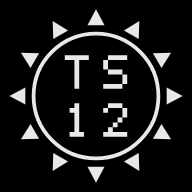
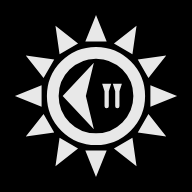
Tusinasää: kuvake auringoksi ja babylonialaiseksi 12:ksi kaikkialla
Välilehtimuoto (paksu kehä, isot ulospäin osoittavat kolmiot) kaikkiin
kuvakkeisiin: välilehti, kotivalikko, manifest, linkin esikatselu ja
Android. Kehän sisällä nuolenpääkirjoituksen 12: kulmakiila (10) täyttää
vasemman puolikkaan, kaksi pystykiilaa (1 + 1) huomattavasti pienempinä
oikean puolikkaan keskellä (käyttäjän ajatus: päivä ja yö keskilinjan eri
puolilla). Pikselikirjaimet TS 12 poistuivat.

Linkin esikatselu uudella nimellä tusinasaa-jako-2.png (viestimien
välimuisti). Maskable-kuvan kärjet tasan turva-alueen reunalla (mitattu 204 /
204,8 px).

Claude-Session: https://claude.ai/code/session_01FjT3WtsPDemhTRazzKC8dV

Changed region(s): [[0.0312, 0.0312, 0.9688, 0.9688]]

diff --git a/android/scripts/tusinasaa-kuvake.js b/android/scripts/tusinasaa-kuvake.js
@@ -1,23 +1,20 @@
-// Tusinasään kuvake (käyttäjän luonnos 17.11.2026): ympyrä, sen ulkopuolella kellotaulun paikoilla 12 pientä
-// ulospäin osoittavaa kolmiota hiukan irti kehästä, ja keskellä pikselikirjaimin TS / 12 (ei keskipistettä:
-// interpunkti poistettiin käyttäjän pyynnöstä samana päivänä). Kirjaimet ovat omaa 5 × 7 -pikseliruudukkoa (ei fonttitiedostoa), jotta sama muoto
-// syntyy vektorina sekä SVG:hen että Androidin VectorDrawableen.
+// Tusinasään kuvake (käyttäjän linjaukset 17.11.2026): musta kiekko, paksu kehä, sen ulkopuolella kellotaulun
+// paikoilla 12 ulospäin osoittavaa kolmiota irti kehästä, ja kehän sisällä babylonialainen luku 12 nuolenpääkirjoituksella:
+// kulmakiila (10) ja kaksi pystykiilaa (1 + 1). Kulmakiila täyttää kehän sisäympyrän vasemman puolikkaan (kärki ja
+// selän kulmat ympyrällä, selkä keskilinjan tuntumassa); pystykiilat ovat huomattavasti pienemmät oikean puolikkaan
+// keskellä, jolloin keskilinjan eri puolille syntyy päivän ja yön vaikutelma (käyttäjän ajatus).
+// Sama muoto kaikkialla (välilehti, kotivalikko, linkin esikatselu, Android); vain rajaus vaihtelee.
 //
 // Tuottaa:
-//   icons/tusinasaa.svg            välilehden kuvake: oma, pelkistetty muoto (käyttäjän pyyntö 17.11.2026): ei kirjaimia,
-//                                  paksumpi kehä ja suuremmat kolmiot, jotta 16–32 px:ssä näkyy muoto eikä puuroa ja
-//                                  välilehden kuvake erottuu kotinäytön ja sovelluksen kuvakkeesta
-//   icons/tusinasaa-180.png        apple-touch-icon (tumma; iOS täyttää läpinäkyvän mustalla)
-//   icons/tusinasaa-192.png, -512.png   manifest.webmanifest, any (näkyvä 72 yksikön alue)
-//   icons/tusinasaa-maskable-512.png    manifest, maskable: koko 108 kangas, koska maskin turva-alue on säde 40 %
-//   icons/tusinasaa-32.png         sama välilehtikuvake selaimille, jotka eivät näytä SVG-kuvaketta (Big Surin Safari)
-//   icons/tusinasaa-jako-1.png     linkin esikatselu (og:image; WhatsApp, Signal ym.), 600 × 600. Kun kuva muuttuu,
-//                                  nosta numeroa ja päivitä og:image: viestimet pitävät vanhan osoitteen kuvan välimuistissa.
-//   android/app/src/main/res/…     käynnistyskuvake: adaptiivinen (Android 8+) ja monokromi (13+ teemakuvake)
-//
-// Kaikkialla tumma (vaalea viiva mustalla). Vaalea versio (VAALEA) kokeiltiin 17.11.2026: vaalealla taustakuvalla
-// ja vaalealla välilehtipalkilla se hukkui taustaan, tumma erottui joka taustalla. Android 13:n teemakuvake
-// (monokromi) sävyttyy järjestelmän väreihin, joten vaalea sävy tulee sitä kautta, jos käyttäjä sen valitsee.
+//   icons/tusinasaa.svg, -32.png         välilehden kuvake (32 px PNG Big Surin Safarille)
+//   icons/tusinasaa-180.png              apple-touch-icon (iOS täyttää läpinäkyvän mustalla, joten musta neliö)
+//   icons/tusinasaa-192.png, -512.png    manifest.webmanifest, any
+//   icons/tusinasaa-maskable-512.png     manifest, maskable: kolmioiden kärjet maskin turva-alueen (säde 40 %) sisällä
+//   icons/tusinasaa-jako-N.png           linkin esikatselu (og:image; WhatsApp, Signal ym.), 600 × 600. Kun kuva muuttuu,
+//                                        nosta JAKO-numeroa ja päivitä og:image tusinapaja.html:ssä ja index.html:ssä:
+//                                        viestimet pitävät vanhan osoitteen kuvan välimuistissa.
+//   android/app/src/main/res/…           käynnistyskuvake: adaptiivinen (Android 8+), monokromi (13+ teemakuvake) ja
+//                                        Android 7:lle pyöreä layer-list
 //
 // Ajo repon juuressa: NODE_PATH=$(npm root -g) node android/scripts/tusinasaa-kuvake.js
 const fs = require('fs');
@@ -27,94 +24,70 @@ const { chromium } = require('playwright');
 const JUURI = path.resolve(__dirname, '../..');
 const IKONIT = path.join(JUURI, 'icons');
 const RES = path.join(JUURI, 'android/app/src/main/res');
+const JAKO = 2;
 
-// tusinapaja.html:n värit: tumma teema --color-bg / --color-text, vaalea samat.
-const TUMMA = { pohja: '#000000', muste: '#e8e8e8' };
-const VAALEA = { pohja: '#f7f8fa', muste: '#1c1f22' };
+// tusinapaja.html:n tumman teeman --color-bg ja --color-text.
+const POHJA = '#000000', MUSTE = '#e8e8e8';
 
-// Kangas 108 × 108 kuten Androidin adaptiivisessa kuvakkeessa (näkyvä alue 72, turva-alue Ø 66).
-const K = 108, C = K / 2;
-const P = 1.8;                 // pikselin sivu
-const R = 23.4;                // kehän säde (viivan keskeltä)
-const KEHA = 1.4;              // kehän viiva
-const RAKO = 2.4;              // kehän ulkoreunasta kolmion kantaan
-const KOLMIO_K = 6;            // kolmion korkeus
-const KOLMIO_L = 6.4;          // kolmion kanta
-
-const MERKIT = {
-  T: ['#####', '..#..', '..#..', '..#..', '..#..', '..#..', '..#..'],
-  S: ['.####', '#....', '#....', '.###.', '....#', '....#', '####.'],
-  1: ['..#..', '.##..', '..#..', '..#..', '..#..', '..#..', '.###.'],
-  2: ['.###.', '#...#', '....#', '...#.', '..#..', '.#...', '#####'],
-};
+// Kangas 32 × 32, keskipiste 16: 32 px:n välilehdessä yksikkö on pikseli.
+const C = 16;
+const R = 8.1, KEHA = 2.2;                       // kehän säde viivan keskeltä ja viivan paksuus
+const RAKO = 1, KOLMIO_K = 5, KOLMIO_L = 4;      // kehästä kolmion kantaan, kolmion korkeus ja kanta
+const VALI = .75;                                // kehän sisäreunasta merkkeihin
+const U = R - KEHA / 2 - VALI;                   // merkkien ympyrä
+// Kulmakiila: kärki vasemmalla ympyrällä, selkä x = SELKA (kulmat ympyrällä), lovi LOVI selästä sisään.
+const SELKA = -.4, LOVI = 1.5;
+// Pystykiilat: keskikohdat, koko korkeus, pään leveys ja korkeus, varren leveys (pyöreä pää). Pystysuunnassa keskellä.
+const PYST = [2, 4], PYST_K = 4.6, PAA = 1.7, PAA_K = 1.4, VARSI = .8;
+const KARKI = R + KEHA / 2 + RAKO + KOLMIO_K;    // kolmioiden kärkien säde (15,2)
 
 const n = x => +x.toFixed(3);
+const ymp = x => Math.sqrt(Math.max(0, U * U - x * x));   // merkkiympyrän puolikorkeus kohdassa x
 
-// Pikselit yhdeksi poluksi; vaakasuorat jonot yhdistetään. Kaikki samassa polussa, ettei saumoja synny.
-function pikselit() {
-  const osat = [];
-  const merkki = (rivit, x0, y0) => rivit.forEach((rivi, j) => {
-    for (let i = 0; i < rivi.length; i++) {
-      if (rivi[i] !== '#') continue;
-      let l = 1;
-      while (rivi[i + l] === '#') l++;
-      osat.push([x0 + i * P, y0 + j * P, l * P, P]);
-      i += l - 1;
-    }
-  });
-  // Lohko 13 × 17 pikseliä: merkki 5 × 7, väli 3.
-  const vas = C - 6.5 * P, oik = C + 1.5 * P, yla = C - 8.5 * P, ala = C + 1.5 * P;
-  merkki(MERKIT.T, vas, yla);
-  merkki(MERKIT.S, oik, yla);
-  merkki(MERKIT[1], vas, ala);
-  merkki(MERKIT[2], oik, ala);
-  return osat.map(([x, y, w, h]) => `M${n(x)},${n(y)}h${n(w)}v${n(h)}h${n(-w)}Z`).join('');
-}
-
-function kolmiot(c = C, kanta = R + KEHA / 2 + RAKO, korkeus = KOLMIO_K, leveys = KOLMIO_L) {
-  const karki = kanta + korkeus;                // kärki ulospäin
+function kolmiot() {
+  const kanta = R + KEHA / 2 + RAKO;
   let d = '';
   for (let t = 0; t < 12; t++) {
     const a = t * Math.PI / 6;                 // 0 = klo 12
     const ux = Math.sin(a), uy = -Math.cos(a); // ulos
     const vx = Math.cos(a), vy = Math.sin(a);  // tangentti
-    const p = (r, s) => `${n(c + ux * r + vx * s)},${n(c + uy * r + vy * s)}`;
-    d += `M${p(karki, 0)}L${p(kanta, leveys / 2)}L${p(kanta, -leveys / 2)}Z`;
+    const p = (r, s) => `${n(C + ux * r + vx * s)},${n(C + uy * r + vy * s)}`;
+    d += `M${p(kanta + KOLMIO_K, 0)}L${p(kanta, KOLMIO_L / 2)}L${p(kanta, -KOLMIO_L / 2)}Z`;
   }
   return d;
 }
 
-const KEHA_D = `M${C},${n(C - R)}a${R},${R} 0 1,1 0,${2 * R}a${R},${R} 0 1,1 0,${-2 * R}Z`;
-const TAYTE = kolmiot() + pikselit();
+function kiilat() {
+  const sy = ymp(SELKA);
+  let d = `M${n(C - U)},${C}L${n(C + SELKA)},${n(C - sy)}L${n(C + SELKA - LOVI)},${C}L${n(C + SELKA)},${n(C + sy)}Z`;
+  for (const x of PYST) {
+    const w = PAA / 2, v = VARSI / 2, yla = -PYST_K / 2, kaula = yla + PAA_K, ala = yla + PYST_K - v;
+    d += `M${n(C + x - w)},${n(C + yla)}H${n(C + x + w)}L${n(C + x + v)},${n(C + kaula)}V${n(C + ala)}` +
+      `A${v},${v} 0 0 1 ${n(C + x - v)},${n(C + ala)}V${n(C + kaula)}Z`;
+  }
+  return d;
+}
 
-// SVG-sisältö; viewBox valitsee rajauksen. tausta: 'nelio' | 'ympyra' | null
-function svg({ pohja, muste }, { viewBox = `0 0 ${K} ${K}`, tausta = 'nelio' } = {}) {
+const KEHA_D = `M${C},${n(C - R)}A${R},${R} 0 1 1 ${C},${n(C + R)}A${R},${R} 0 1 1 ${C},${n(C - R)}Z`;
+const TAYTE = kolmiot() + kiilat();
+
+// tausta: 'kiekko' (välilehti) tai 'nelio' (koko viewBox; kotivalikko, manifest, esikatselu)
+function svg({ viewBox = '0 0 32 32', tausta = 'kiekko' } = {}) {
   const [x, y, w] = viewBox.split(' ').map(Number);
-  const t = tausta === 'nelio' ? `<rect x="${x}" y="${y}" width="${w}" height="${w}" fill="${pohja}"/>`
-    : tausta === 'ympyra' ? `<circle cx="${C}" cy="${C}" r="${w / 2}" fill="${pohja}"/>` : '';
+  const t = tausta === 'kiekko' ? `<circle cx="${C}" cy="${C}" r="16" fill="${POHJA}"/>`
+    : `<rect x="${x}" y="${y}" width="${w}" height="${w}" fill="${POHJA}"/>`;
   return `<svg xmlns="http://www.w3.org/2000/svg" viewBox="${viewBox}">
 ${t}
-<path fill="none" stroke="${muste}" stroke-width="${KEHA}" d="${KEHA_D}"/>
-<path fill="${muste}" d="${TAYTE}"/>
+<path fill="none" stroke="${MUSTE}" stroke-width="${KEHA}" d="${KEHA_D}"/>
+<path fill="${MUSTE}" d="${TAYTE}"/>
 </svg>
 `;
 }
 
-// Kotivalikon ja manifestin kuvakkeet: näkyvä 72 yksikön alue (Androidin maski) koko kuvaksi.
-const NAKYVA = `${C - 36} ${C - 36} 72 72`;
-
-// Välilehti 32 × 32 yksikköä: 32 px:ssä (Retina-näytön välilehti) yksikkö on pikseli. Musta kiekko, kehä 2,4 px,
-// kolmiot 4 × 5 px ja niiden välissä noin pikselin rako.
-const V = { c: 16, r: 7.6, keha: 2.4, rako: 1, korkeus: 5, leveys: 4 };
-function valilehti({ pohja, muste }) {
-  const { c, r, keha, rako, korkeus, leveys } = V;
-  return `<svg xmlns="http://www.w3.org/2000/svg" viewBox="0 0 32 32">
-<circle cx="${c}" cy="${c}" r="16" fill="${pohja}"/>
-<circle cx="${c}" cy="${c}" r="${r}" fill="none" stroke="${muste}" stroke-width="${keha}"/>
-<path fill="${muste}" d="${kolmiot(c, r + keha / 2 + rako, korkeus, leveys)}"/>
-</svg>
-`;
-}
+const ruutu = puoli => `${n(C - puoli)} ${n(C - puoli)} ${n(2 * puoli)} ${n(2 * puoli)}`;
+const KOTI = ruutu(18);                    // kärjet 15,2 / 18 = 84 % puolikkaasta; iOS pyöristää kulmat
+const MASKI = ruutu(KARKI / .8);           // kärjet tasan turva-alueen reunalla (säde 40 % leveydestä)
+const ESIKATSELU = ruutu(22);
 
 async function png(sivu, sisalto, koko, tiedosto) {
   await sivu.setViewportSize({ width: koko, height: koko });
@@ -122,22 +95,30 @@ async function png(sivu, sisalto, koko, tiedosto) {
   await sivu.screenshot({ path: tiedosto, omitBackground: true, clip: { x: 0, y: 0, width: koko, height: koko } });
 }
 
+// Android: 108 dp:n kangas, turva-alue säde 33 dp. Kärjet skaalataan 33 dp:hen.
 function android() {
+  const S = 33 / KARKI, siirto = n(54 - C * S);
   const huom = '<!-- Tuottaa android/scripts/tusinasaa-kuvake.js; älä muokkaa käsin. -->\n';
   const kirjoita = (p, s) => { fs.mkdirSync(path.dirname(path.join(RES, p)), { recursive: true }); fs.writeFileSync(path.join(RES, p), s); };
   kirjoita('drawable/ic_tusinasaa_merkki.xml', `<?xml version="1.0" encoding="utf-8"?>
 ${huom}<vector xmlns:android="http://schemas.android.com/apk/res/android"
     android:width="108dp"
     android:height="108dp"
-    android:viewportWidth="${K}"
-    android:viewportHeight="${K}">
-    <path
-        android:pathData="${KEHA_D.replace(/ /g, ',')}"
-        android:strokeColor="@color/kuvake_muste"
-        android:strokeWidth="${KEHA}" />
-    <path
-        android:fillColor="@color/kuvake_muste"
-        android:pathData="${TAYTE}" />
+    android:viewportWidth="108"
+    android:viewportHeight="108">
+    <group
+        android:scaleX="${n(S)}"
+        android:scaleY="${n(S)}"
+        android:translateX="${siirto}"
+        android:translateY="${siirto}">
+        <path
+            android:pathData="${KEHA_D.replace(/ /g, ',')}"
+            android:strokeColor="@color/kuvake_muste"
+            android:strokeWidth="${KEHA}" />
+        <path
+            android:fillColor="@color/kuvake_muste"
+            android:pathData="${TAYTE.replace(/ /g, ',')}" />
+    </group>
 </vector>
 `);
   kirjoita('mipmap-anydpi-v26/ic_launcher.xml', `<?xml version="1.0" encoding="utf-8"?>
@@ -165,23 +146,23 @@ ${huom}<layer-list xmlns:android="http://schemas.android.com/apk/res/android">
   kirjoita('values/kuvake.xml', `<?xml version="1.0" encoding="utf-8"?>
 ${huom}<resources>
     <!-- tusinapaja.html:n tumma teema -->
-    <color name="kuvake_pohja">${TUMMA.pohja}</color>
-    <color name="kuvake_muste">${TUMMA.muste}</color>
+    <color name="kuvake_pohja">${POHJA}</color>
+    <color name="kuvake_muste">${MUSTE}</color>
 </resources>
 `);
 }
 
 if (require.main === module) (async () => {
   fs.mkdirSync(IKONIT, { recursive: true });
-  fs.writeFileSync(path.join(IKONIT, 'tusinasaa.svg'), valilehti(TUMMA));
+  fs.writeFileSync(path.join(IKONIT, 'tusinasaa.svg'), svg());
   const b = await chromium.launch();
   const s = await b.newPage();
-  await png(s, valilehti(TUMMA), 32, path.join(IKONIT, 'tusinasaa-32.png'));
-  for (const k of [180, 192, 512]) await png(s, svg(TUMMA, { viewBox: NAKYVA }), k, path.join(IKONIT, `tusinasaa-${k}.png`));
-  await png(s, svg(TUMMA), 512, path.join(IKONIT, 'tusinasaa-maskable-512.png'));
-  await png(s, svg(TUMMA), 600, path.join(IKONIT, 'tusinasaa-jako-1.png'));
+  await png(s, svg(), 32, path.join(IKONIT, 'tusinasaa-32.png'));
+  for (const k of [180, 192, 512]) await png(s, svg({ viewBox: KOTI, tausta: 'nelio' }), k, path.join(IKONIT, `tusinasaa-${k}.png`));
+  await png(s, svg({ viewBox: MASKI, tausta: 'nelio' }), 512, path.join(IKONIT, 'tusinasaa-maskable-512.png'));
+  await png(s, svg({ viewBox: ESIKATSELU, tausta: 'nelio' }), 600, path.join(IKONIT, `tusinasaa-jako-${JAKO}.png`));
   await b.close();
   android();
 })();
 
-module.exports = { svg, valilehti, TUMMA, VAALEA, K, C, NAKYVA };
+module.exports = { svg, KOTI, MASKI, ESIKATSELU };

diff --git a/tusinapaja.html b/tusinapaja.html
@@ -9,10 +9,10 @@
 <link rel="icon" href="icons/tusinasaa.svg" type="image/svg+xml">
 <link rel="apple-touch-icon" href="icons/tusinasaa-180.png">
 <meta property="og:title" content="TUSINASÄÄ 12">
-<meta property="og:image" content="https://ollijuutilainen.github.io/icons/tusinasaa-jako-1.png">
+<meta property="og:image" content="https://ollijuutilainen.github.io/icons/tusinasaa-jako-2.png">
 <meta property="og:image:width" content="600">
 <meta property="og:image:height" content="600">
-<meta property="og:image:alt" content="TS 12">
+<meta property="og:image:alt" content="Aurinko ja babylonialainen luku 12">
 <!-- ohjelman leima: TUSINASÄÄ 12 versio 1.1.1 -->
 <style>
   /* Tumma tila toimii oletuksena; vaalea teema aktivoituu vain pyydettäessä. */

diff --git a/index.html b/index.html
@@ -13,10 +13,10 @@
   <link rel="icon" href="./icons/tusinasaa.svg" type="image/svg+xml" />
   <link rel="apple-touch-icon" href="./icons/tusinasaa-180.png" />
   <meta property="og:title" content="TUSINASÄÄ 12">
-  <meta property="og:image" content="https://ollijuutilainen.github.io/icons/tusinasaa-jako-1.png">
+  <meta property="og:image" content="https://ollijuutilainen.github.io/icons/tusinasaa-jako-2.png">
   <meta property="og:image:width" content="600">
   <meta property="og:image:height" content="600">
-  <meta property="og:image:alt" content="TS 12">
+  <meta property="og:image:alt" content="Aurinko ja babylonialainen luku 12">
 
   <link rel="manifest" href="./manifest.webmanifest" />
 
